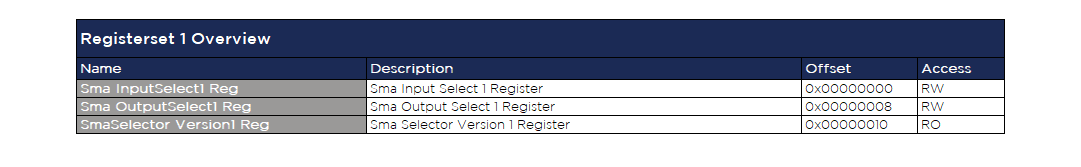
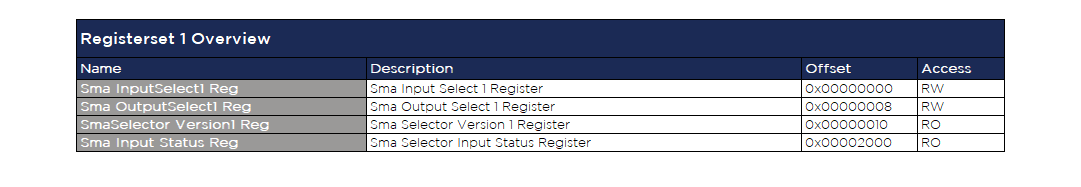
Added some missing update of files for the latest update with the SMA Input Status (already in version 0x005)

Changed region(s): [[0.0611, 0.2994, 0.9463, 0.8383], [0.0611, 0.0898, 0.9463, 0.1198], [0.0611, 0.1796, 0.2747, 0.2695]]

diff --git a/Time-Card/FPGA/Open-Source/Ips/SmaSelector/Readme.md b/Time-Card/FPGA/Open-Source/Ips/SmaSelector/Readme.md
@@ -80,6 +80,9 @@ Register address space is not contiguous. Register addresses are only offsets in
 Non existing register access in the mapped memory area is answered with a slave decoding error.
 ### 3.1 Register Set 1
 The Register set 1 configures mapping 1. In mapping 1, SMA 1 and SMA 2 are inputs, while SMA 3 and SMA 4 are outputs. 
+
+Additionally, the Register Set 1 provides the status of the 4 SMA inputs.
+
 #### 3.1.1 Register Set 1 Overview 
 The Register Set 1 overview is shown in the table below. 
 ![RegisterSet1](Additional%20Files/Regset1_Overview.png)
@@ -88,6 +91,7 @@ The tables below describe the registers of the SMA Selector's mapping 1.
 ![InputSel1](Additional%20Files/Regset1_1_InputSel.png)
 ![OutputSel1](Additional%20Files/Regset1_2_OutputSel.png)
 ![Version1](Additional%20Files/Regset1_3_Version.png)
+![InputStatus](Additional%20Files/Regset1_4_InputStatus.png)
 ### 3.2 Register Set 2
 The Register set 2 configures mapping 2. In mapping 2, SMA 1 and SMA 2 are outputs, while SMA 3 and SMA 4 are inputs. 
 #### 3.2.1 Register Set 2 Overview 
@@ -98,6 +102,7 @@ The tables below describe the registers of the SMA Selector's mapping 2. The ver
 ![InputSel2](Additional%20Files/Regset2_1_InputSel.png)
 ![OutputSel2](Additional%20Files/Regset2_2_OutputSel.png)
 ![Version2](Additional%20Files/Regset2_3_Version.png)
+
 ## 4 Design Description
 The SMA Selector multiplexes the input and output options, according to the configuration mappings. 
 The core contains 2 AXI4Lite slaves for configuration and status supervision from a CPU. 

diff --git a/Time-Card/FPGA/Open-Source/Ips/Readme.md b/Time-Card/FPGA/Open-Source/Ips/Readme.md
@@ -17,6 +17,8 @@ The folder contains the files for the custom IP cores which are used at the Time
    │               
    ├───ClockDetector
    │               
+   ├───CommunicationSelecor
+   │               
    ├───ConfMaster
    │               
    ├───CoreList
